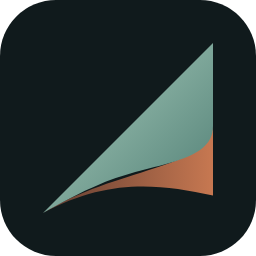
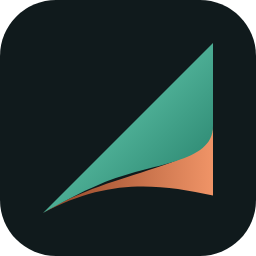
Unify Keel canonical palette, brand guide, and rendered sail assets (#77)

Changed region(s): [[0.1875, 0.1562, 0.8438, 0.8125]]

diff --git a/docs/brand/preview.html b/docs/brand/preview.html
@@ -2,9 +2,9 @@
 <html lang="en"><meta charset="utf-8"><meta name="viewport" content="width=device-width,initial-scale=1">
 <title>Keel — visual identity</title>
 <style>
-*{box-sizing:border-box}body{margin:0;background:#101a1c;color:#f7f3e9;font:16px/1.6 system-ui,sans-serif}main{max-width:1100px;margin:auto;padding:64px 40px}.eyebrow{color:#acd0c0;font-size:12px;letter-spacing:.15em;text-transform:uppercase}.hero{display:grid;grid-template-columns:1fr 1fr;gap:64px;align-items:center;margin:36px 0 64px}.hero>img{width:100%}h1{display:flex;align-items:center;gap:12px;font-size:68px;letter-spacing:-.05em;font-weight:500;margin:0}h1 img{width:76px}p{color:#b6c1bb;max-width:360px}h2{font-size:14px;font-weight:500;margin:36px 0 20px}.sizes{display:flex;align-items:end;gap:32px;flex-wrap:wrap}.sizes figure{margin:0}.sizes figcaption{color:#b6c1bb;font-size:12px;margin-top:12px}.palette{display:flex;gap:24px;flex-wrap:wrap}.palette span{padding:12px 20px;border-radius:6px;color:#101a1c}.mono{display:flex;gap:24px}.mono div{padding:16px;border-radius:12px;background:#f7f3e9}.mono img{width:88px;display:block}@media(max-width:600px){main{padding:32px 24px}.hero{grid-template-columns:1fr;gap:32px}h1{font-size:56px}.sizes{gap:20px}}
+*{box-sizing:border-box}body{margin:0;background:#0a1112;color:#eef4f2;font:16px/1.6 system-ui,sans-serif}main{max-width:1100px;margin:auto;padding:64px 40px}.eyebrow{color:#76dfc2;font-size:12px;letter-spacing:.15em;text-transform:uppercase}.hero{display:grid;grid-template-columns:1fr 1fr;gap:64px;align-items:center;margin:36px 0 64px}.hero>img{width:100%}h1{display:flex;align-items:center;gap:12px;font-size:68px;letter-spacing:-.05em;font-weight:600;color:#f7f3e9;margin:0}h1 img{width:76px}p{color:#8ca3a0;max-width:380px}h2{font-size:14px;font-weight:500;color:#f7f3e9;margin:36px 0 20px}.sizes{display:flex;align-items:end;gap:32px;flex-wrap:wrap}.sizes figure{margin:0}.sizes figcaption{color:#8ca3a0;font-size:12px;margin-top:12px}.palette{display:flex;gap:14px;flex-wrap:wrap}.palette span{padding:12px 18px;border-radius:8px;font-weight:600;font-size:14px}.mono{display:flex;gap:24px}.mono div{padding:16px;border-radius:12px;background:#f7f3e9}.mono img{width:88px;display:block}@media(max-width:600px){main{padding:32px 24px}.hero{grid-template-columns:1fr;gap:32px}h1{font-size:56px}.sizes{gap:20px}}
 </style>
-<main><div class="eyebrow">Keel / Visual identity</div><section class="hero"><img src="icon.svg" alt="Keel jade and rust sail icon"><div><h1><img src="mark.svg" alt="">Keel</h1><p>A Rust coding-agent harness.</p><p>One leading edge. Two connected surfaces. A clear direction.</p></div></section>
+<main><div class="eyebrow">Keel / Visual identity</div><section class="hero"><img src="icon.svg" alt="Keel jade and rust sail icon"><div><h1><img src="mark.svg" alt="">Keel</h1><p>Local-first AI that works on everyday hardware.</p><p>One leading edge. Two connected surfaces. A clear direction across CLI, Desktop, Mobile, Console, and Arena.</p></div></section>
 <h2>At a glance</h2><div class="sizes"><figure><img src="icon-256.png" width="256" height="256" alt="Keel at 256 pixels"><figcaption>256 px</figcaption></figure><figure><img src="icon-128.png" width="128" height="128" alt="Keel at 128 pixels"><figcaption>128 px</figcaption></figure><figure><img src="icon-32.png" width="32" height="32" alt="Keel at 32 pixels"><figcaption>32 px</figcaption></figure></div>
-<h2>Colour</h2><div class="palette"><span style="background:#709c8f">Jade · #709c8f</span><span style="background:#b66e4f">Rust · #b66e4f</span><span style="background:#f7f3e9">Paper · #f7f3e9</span></div>
+<h2>Colour</h2><div class="palette"><span style="background:#0a1112;color:#f7f3e9;border:1px solid #223538">Ink · #0a1112</span><span style="background:#101a1c;color:#f7f3e9;border:1px solid #223538">Surface · #101a1c</span><span style="background:#36b394;color:#0a1112">Jade · #36b394</span><span style="background:#76dfc2;color:#0a1112">Jade Bright · #76dfc2</span><span style="background:#dc7648;color:#0a1112">Rust · #dc7648</span><span style="background:#f7f3e9;color:#0a1112">Paper · #f7f3e9</span></div>
 <h2>Transparent & single colour</h2><div class="mono"><div><img src="mark.svg" alt="Colour symbol on paper"></div><div><img src="mark-mono.svg" alt="Single colour symbol on paper"></div></div></main></html>

diff --git a/docs/brand/README.md b/docs/brand/README.md
@@ -1,4 +1,4 @@
-# Keel visual identity
+# Keel visual identity & product family
 
 ![Keel icon, wordmark and size variants](preview.png)
 
@@ -6,15 +6,25 @@ The sail carries the supplied Flow direction into a simple vector mark: a jade
 leading surface, a rust underside, and an ink tile. The two surfaces meet along
 one continuous curve. No texture, tiny outlines or drop shadows are needed.
 
-| Colour | Value | Use |
-| --- | --- | --- |
-| Jade | `#709c8f` | Leading surface |
-| Rust | `#b66e4f` | Underside |
-| Ink | `#101a1c` | Icon background |
-| Paper | `#f7f3e9` | Wordmark on dark surfaces |
+## Canonical palette
 
-- `icon.svg`: rounded app tile; PNG exports at 32, 128, 256, 512 and 1024px.
-- `mark.svg`: transparent symbol for headers and future app integrations.
+| Token | Value | Light-mode pair | Use |
+| --- | --- | --- | --- |
+| Ink | `#0a1112` | — | Primary dark canvas |
+| Surface | `#101a1c` | `#ffffff` | Icon tile, cards, panels |
+| Surface Raised | `#162426` | `#ece6d9` | Hover states, nested rows |
+| Paper | `#f7f3e9` | `#f3eee4` | Light canvas, primary CTAs, dark-surface wordmark |
+| Foam | `#eef4f2` | `#2a241c` | Primary body copy |
+| Muted | `#8ca3a0` | `#7a7266` | Secondary labels and metadata |
+| Jade | `#36b394` | `#1e705c` | Leading sail surface, active brand accent |
+| Jade Bright | `#76dfc2` | — | Focus rings, highlights, dark-mode UI accent |
+| Jade Deep | `#217a65` | `#1e705c` | Sail gradient shadow, pressed accent |
+| Rust | `#dc7648` | `#9e4722` | Sail underside, hardware/section markers |
+| Rust Bright | `#f09467` | — | Sail underside highlight |
+| Rust Deep | `#8f4224` | `#9e4722` | Sail underside shadow |
+
+- `icon.svg`: rounded app tile (`#101a1c` tile with `#76dfc2 → #217a65` Jade and `#8f4224 → #f09467` Rust); PNG exports at 32, 128, 256, 512 and 1024px.
+- `mark.svg`: transparent symbol for headers and app integrations.
 - `mark-mono.svg`: flat single-colour symbol; inherits `currentColor` inline.
 - `preview.html`: inspect the mark, wordmark, colour and small-size variants.
 
@@ -22,8 +32,17 @@ Keep the symbol proportional. Leave at least one quarter of its width as clear
 space. Use the flat mark for single-colour output. The wordmark uses the host's
 sans-serif typeface and remains live text, so it needs no bundled font.
 
-The supplied “Flow v1.2.2” board is a design reference, not a software version or
-a production-release claim. These assets do not change the CLI or TUI palette.
+These assets do not change the CLI or TUI terminal palette.
 
 To re-export a PNG, render `icon.svg` at its exact target size on a transparent
 canvas in a browser. The supplied PNGs were rendered headlessly in Chromium.
+
+## Product family
+
+| Product | Surface | Role |
+| --- | --- | --- |
+| **Keel** | CLI & TUI (`keel`) | Core Rust coding-agent harness for small local models |
+| **Keel Desktop** | macOS, Linux, Windows (`keel-desktop`) | GUI workspace (Chat, Work, Code, Apps, MCP) |
+| **Keel Mobile** | iOS (`keel-mobile`) | Standalone on-device iPhone agent on Metal |
+| **Keel Console** | Xbox Series S\|X / 10-ft TV (`keel-xbox`) | Living-room console app (WASM, LAN, UWP) |
+| **Keel Arena** | Python CLI (`keel-arena`) | Edge AI & agent benchmarking suite and SVG scorecards |

diff --git a/README.md b/README.md
@@ -5,7 +5,7 @@
 A **Rust CLI coding-agent harness** aimed at making **small local models**
 (2–27B, e.g. Bonsai and Qwen on llama.cpp) do useful coding work. Private, early.
 
-[Visual identity and icon assets](docs/brand/README.md).
+[Visual identity, palette & Keel family](docs/brand/README.md) · [moesystems.com/keel](https://moesystems.com/keel/).
 
 ## First 60 seconds
 
